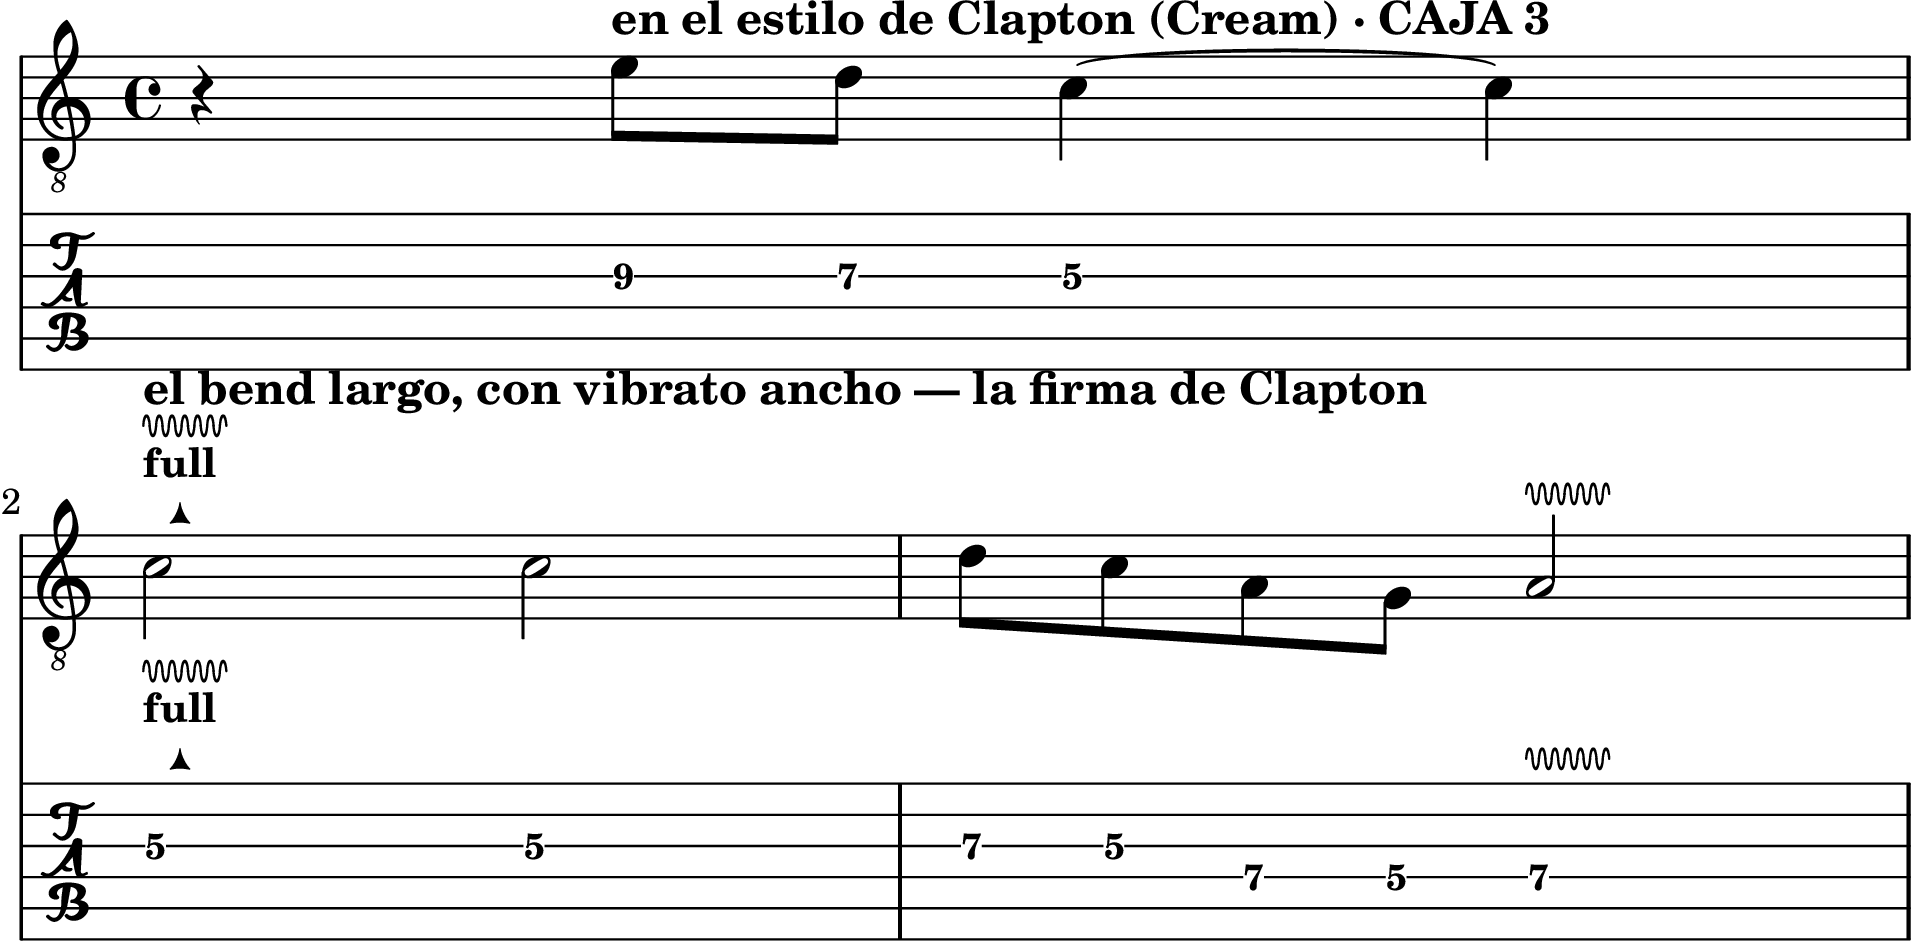
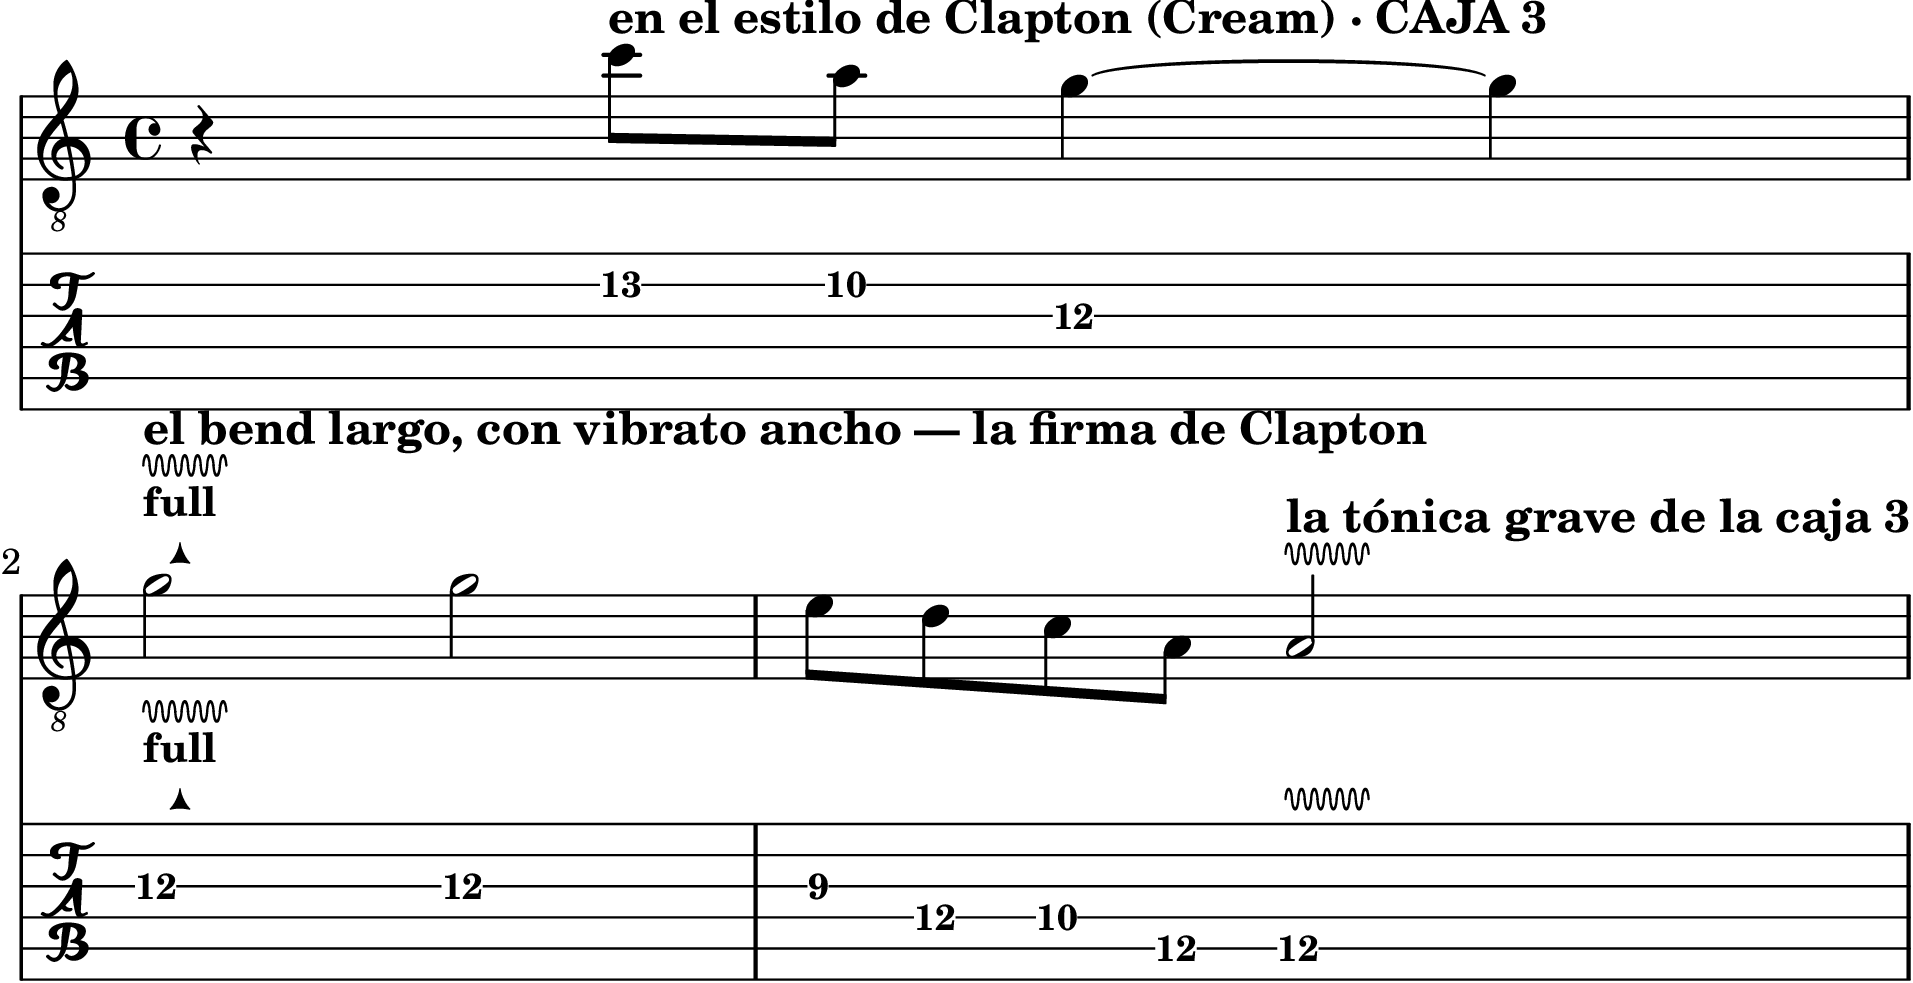
Hito 3: auditoria previa al envio a Design — 3 correcciones
Chequeo pedido por Feli antes de mandarle los cambios a Design. Se cruzo
cada promesa de caja del TEXTO contra los trastes reales de la PARTITURA
en los 18 ejercicios que mencionan cajas. Aparecieron 3 cosas:

1. BUG REAL en el ej. 47-ter (Clapton), introducido en el commit da3bec2.
   El texto decia "misma caja 3 que el 47 y el 47-bis" pero la partitura
   estaba en trastes 5-9 = caja 1. La causa: use c'\3 creyendo que era
   caja 3, y el DO de la 3a cuerda es el traste 5. Reescrito en caja 3
   real (c''\2 / a'\2 / g'\3 / e'\3 / d'\4 / c'\4 / a\5 = trastes 9-13).
   Paso de 10% a 100% fuera de la ventana 5-8.

   Es exactamente el tipo de desfasaje texto-vs-tablatura que este repo
   viene cazando hace rondas. Confirma que el chequeo cruzado vale la
   pena correrlo SIEMPRE que se agrega o mueve un ejercicio, no solo
   cuando algo se ve raro.

2. Inexactitud preexistente en la intro de los ej. 47/48: decia que la
   caja 5 era "la unica zona que todavia no habias pisado en este hito",
   pero el ej. 46 la recorre entera dos paginas antes. Y decia "estos dos
   cierran el mapa" cuando con 47-bis y 47-ter ya son cuatro ejercicios.
   Parrafo reescrito: ahora describe el grupo de caja 3 (tres manos
   distintas sobre el mismo territorio) y la bajada a la caja 5 como
   "ya la cruzaste de paso en el 46, pero nunca la habitaste".

3. Aviso de mano nuevo en el ej. 53: la frase de apertura es la misma
   melodia de antes bajada una octava exacta (a c' d' c' -> a, c d c),
[…]

Changed region(s): [[0.0, 0.0, 1.0, 1.0]]

diff --git a/scripts/build_hito3.py b/scripts/build_hito3.py
@@ -443,10 +443,12 @@ S.append(ejercicio(46, "EL MISMO LICK EN LAS CINCO CAJAS", (
 
 S.append(Paragraph("DOS LICKS MÁS, EN LOS DOS EXTREMOS DEL MÁSTIL", H2))
 S.append(Paragraph(
-    "Venís tocando vocabulario repartido por las cajas 1, 2, 3 y 4 desde la semana 9. Estos dos cierran el "
-    "mapa: uno vuelve a la <b>caja 3</b> — y es a propósito la misma celda del ejercicio 35, para que la "
-    "comparación sea directa — y el otro baja a la <b>caja 5</b>, la única zona que todavía no habías "
-    "pisado en este hito.", BODY))
+    "Venís tocando vocabulario repartido por todo el mástil desde la semana 9. Lo que sigue cierra el mapa "
+    "por los dos extremos. Primero, un grupo entero se planta en la <b>caja 3</b>: el mismo barrio, visto por "
+    "tres manos distintas — la celda del ejercicio 35 tres cajas más arriba, y después cómo la usan Page y "
+    "Clapton. Es la comparación más directa del hito: mismo territorio, tres personalidades.<br/><br/>"
+    "Y después el último baja a la <b>caja 5</b>. Ya la cruzaste de paso en el ejercicio 46, pero nunca la "
+    "habitaste: acá abajo la escala cambia de carácter, y ese cambio es el punto del ejercicio.", BODY))
 
 S.append(ejercicio(47, "La celda repetida, tres cajas más arriba (caja 3)", (
     "Es <b>exactamente el mecanismo del ejercicio 35</b> — la celda de tres notas machacada hasta que se "
@@ -573,6 +575,11 @@ S.append(KeepTogether([
     Paragraph(
         "Compás 10: silencio completo, justo después del bending más importante. Es el aire antes del cierre — "
         "sin ese compás vacío, la vuelta del motivo no emocionaría.", SMALL),
+    Paragraph(
+        "▸ Un aviso de mano para los compases 1 y 2: la frase de apertura es exactamente la misma melodía "
+        "que venías tocando arriba, pero <b>una octava más abajo</b> — no hay nada nuevo que aprender de "
+        "oído. Lo que sí es nuevo es el vibrato del compás 2, en la 6ª cuerda: esa cuerda es más gruesa y "
+        "pide más muñeca para que se escuche. Practicalo suelto antes, como hiciste con el ejercicio 28.", SMALL),
 ]))
 
 # ============================================================ BANCO DE LICKS

diff --git a/scripts/gen_scores_h3.py b/scripts/gen_scores_h3.py
@@ -234,9 +234,9 @@ EJ["e47"] = r"""
 # todavía (ver memoria). Si en algún momento aparece una transcripción real de
 # "Crossroads", se agrega aparte como 47-quater.
 EJ["e47ter"] = r"""
-  r4 e'8\3^\markup{\bold "en el estilo de Clapton (Cream) · CAJA 3"} d'\3 c'4\3 ~ c'4 |
-  c'2\3 \tabSym \bendFull \tabSym \vib ^\markup{\bold "el bend largo, con vibrato ancho — la firma de Clapton"} c'2\3 |
-  d'8\3 c'\3 a8\4 g8\4 a2\4 \tabSym \vib |
+  r4 c''8\2^\markup{\bold "en el estilo de Clapton (Cream) · CAJA 3"} a'\2 g'4\3 ~ g'4 |
+  g'2\3 \tabSym \bendFull \tabSym \vib ^\markup{\bold "el bend largo, con vibrato ancho — la firma de Clapton"} g'2\3 |
+  e'8\3 d'\4 c'\4 a\5 a2\5 \tabSym \vib ^\markup{\bold "la tónica grave de la caja 3"} |
 """
 
 # 48: la CAJA 5, la zona grave (repatriado del bonus) — Angus / Chuck Berry
